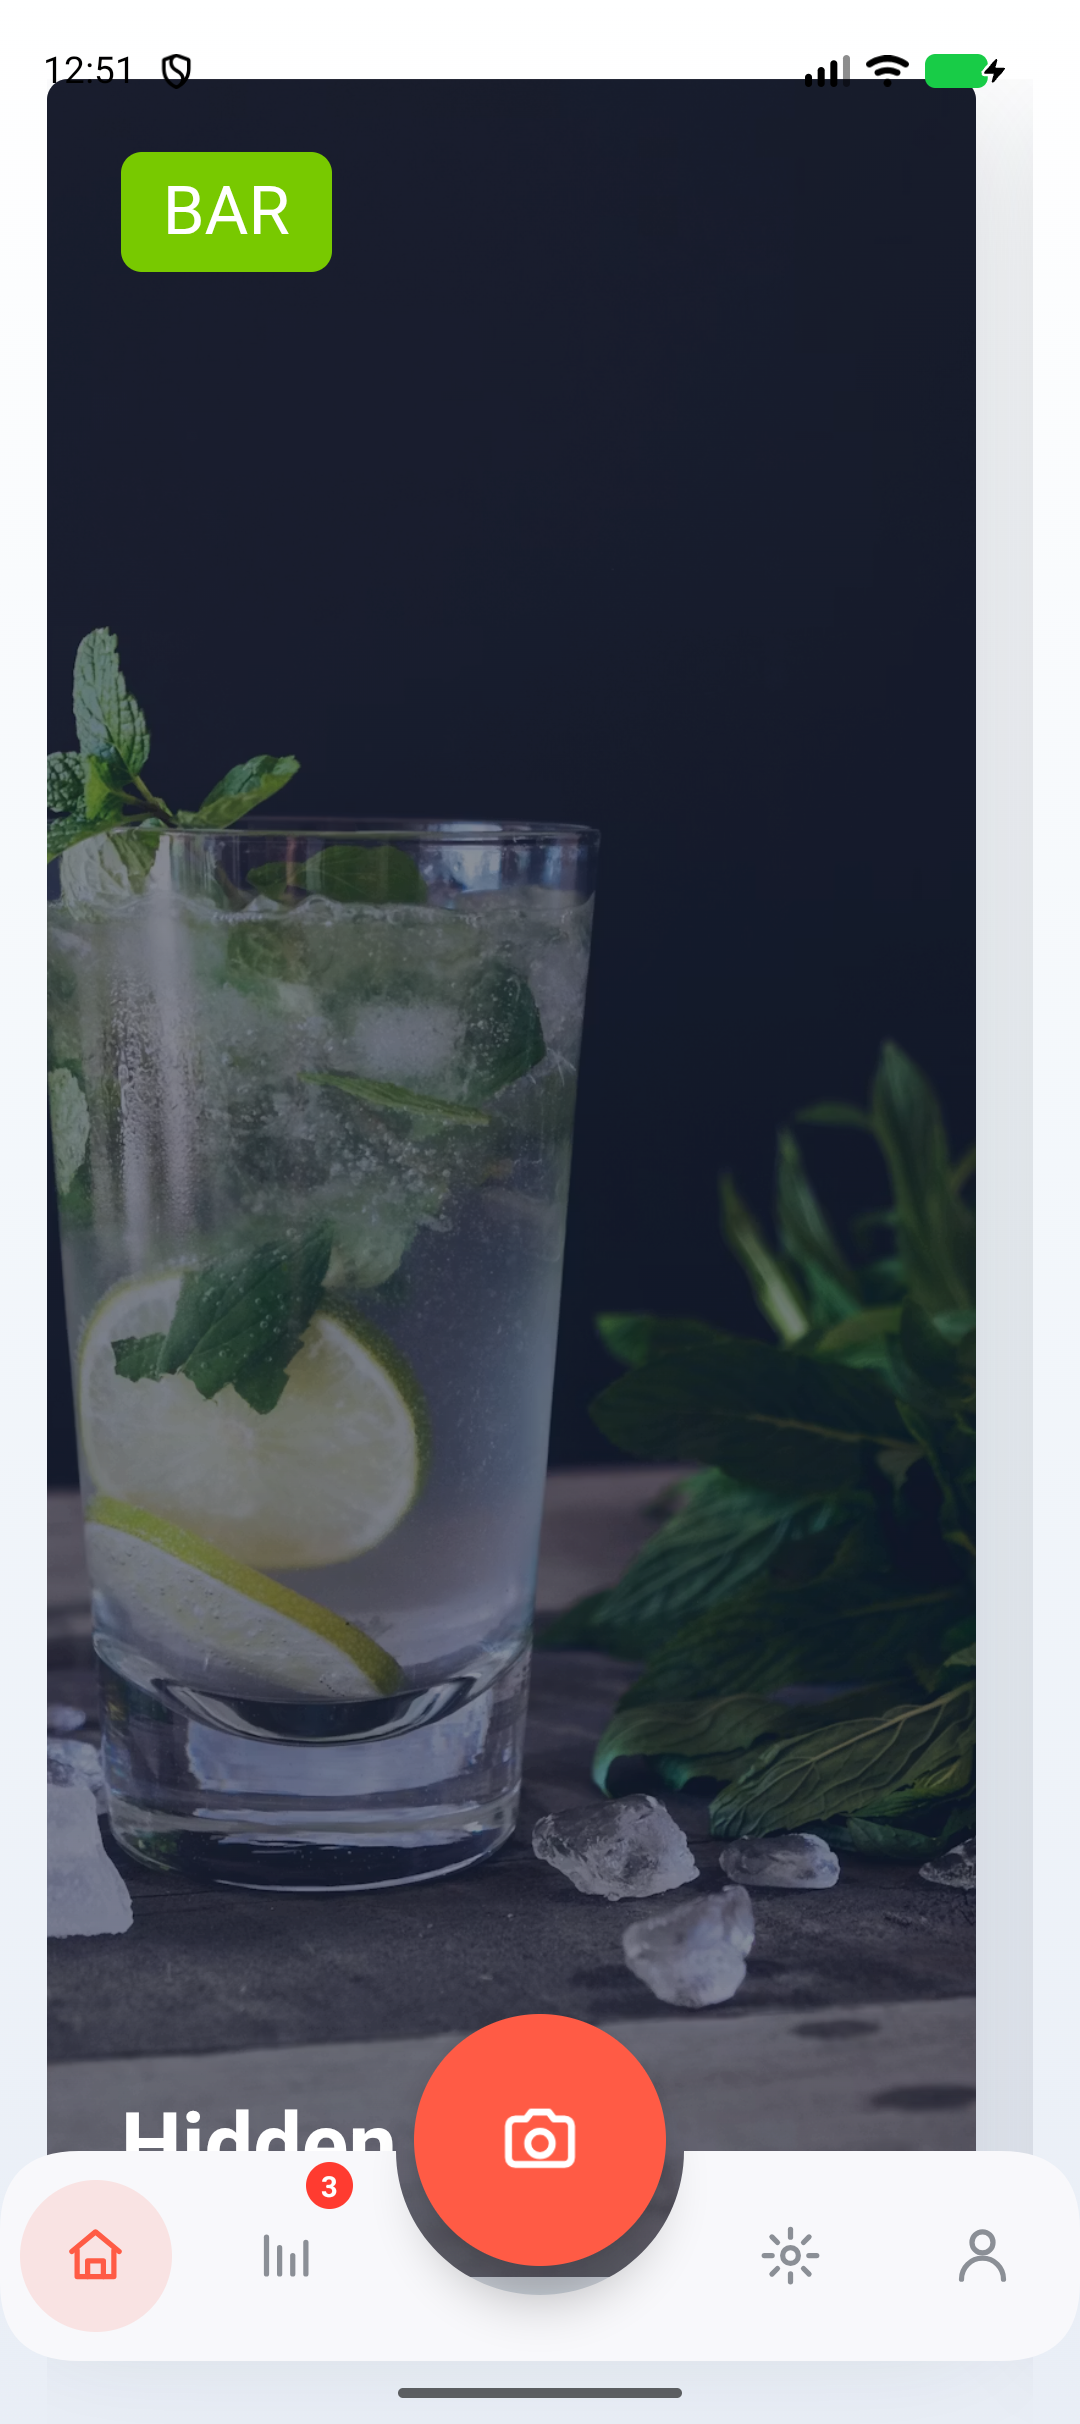
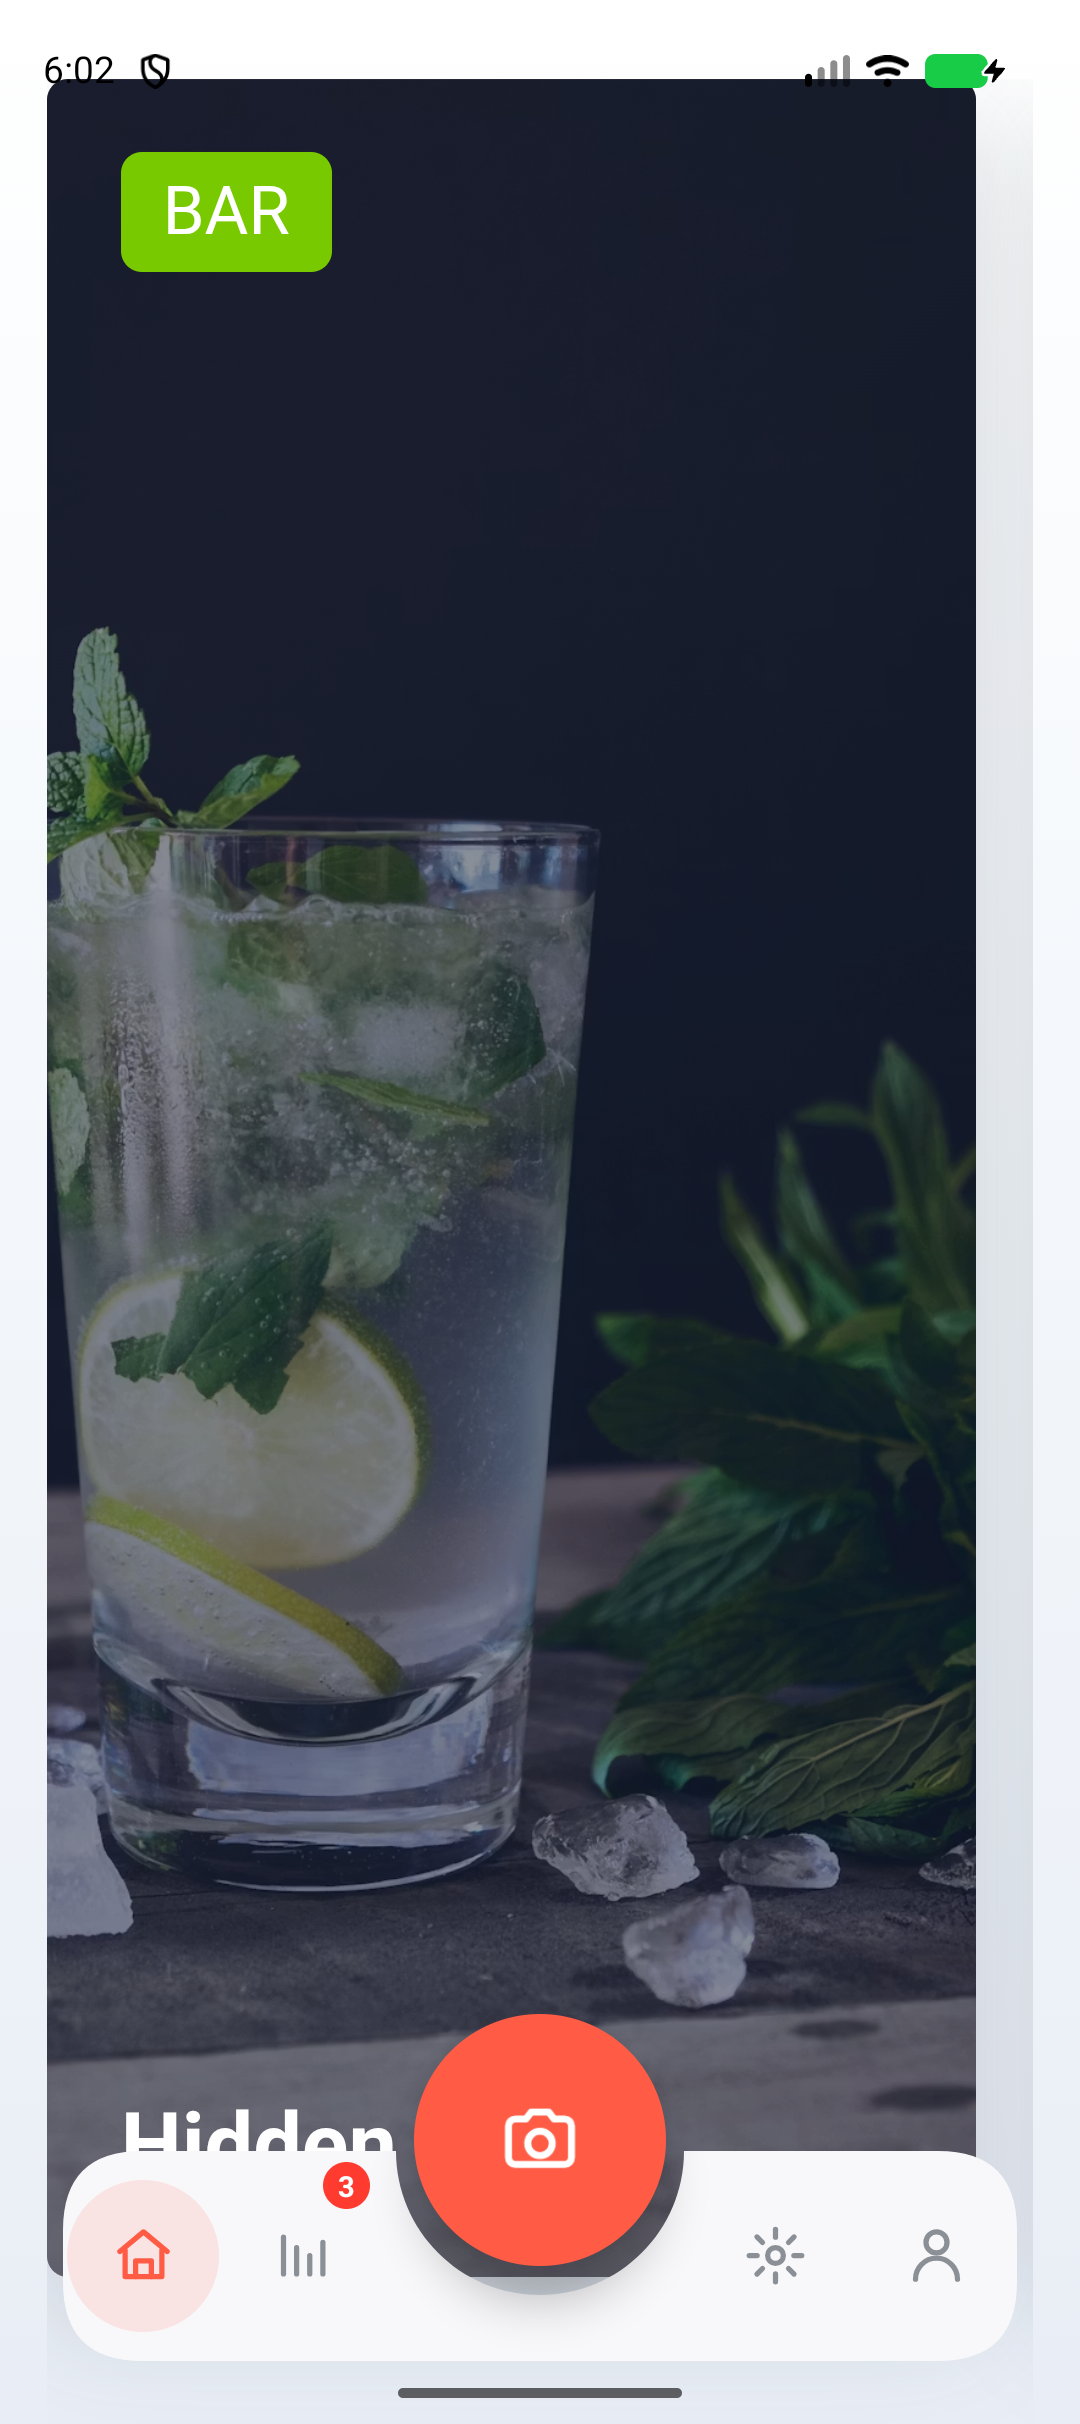
fix: update curved tabbar screenshot margin

diff --git a/example-app/src/main.js b/example-app/src/main.js
@@ -152,7 +152,7 @@ const tabbarStyle = () =>
         shape: 'curve',
         centerItemId: 'capture',
         height: 80,
-        horizontalMargin: 16,
+        horizontalMargin: 24,
         maxWidth: 0,
         bottomGap: 0,
         cornerRadius: 30,